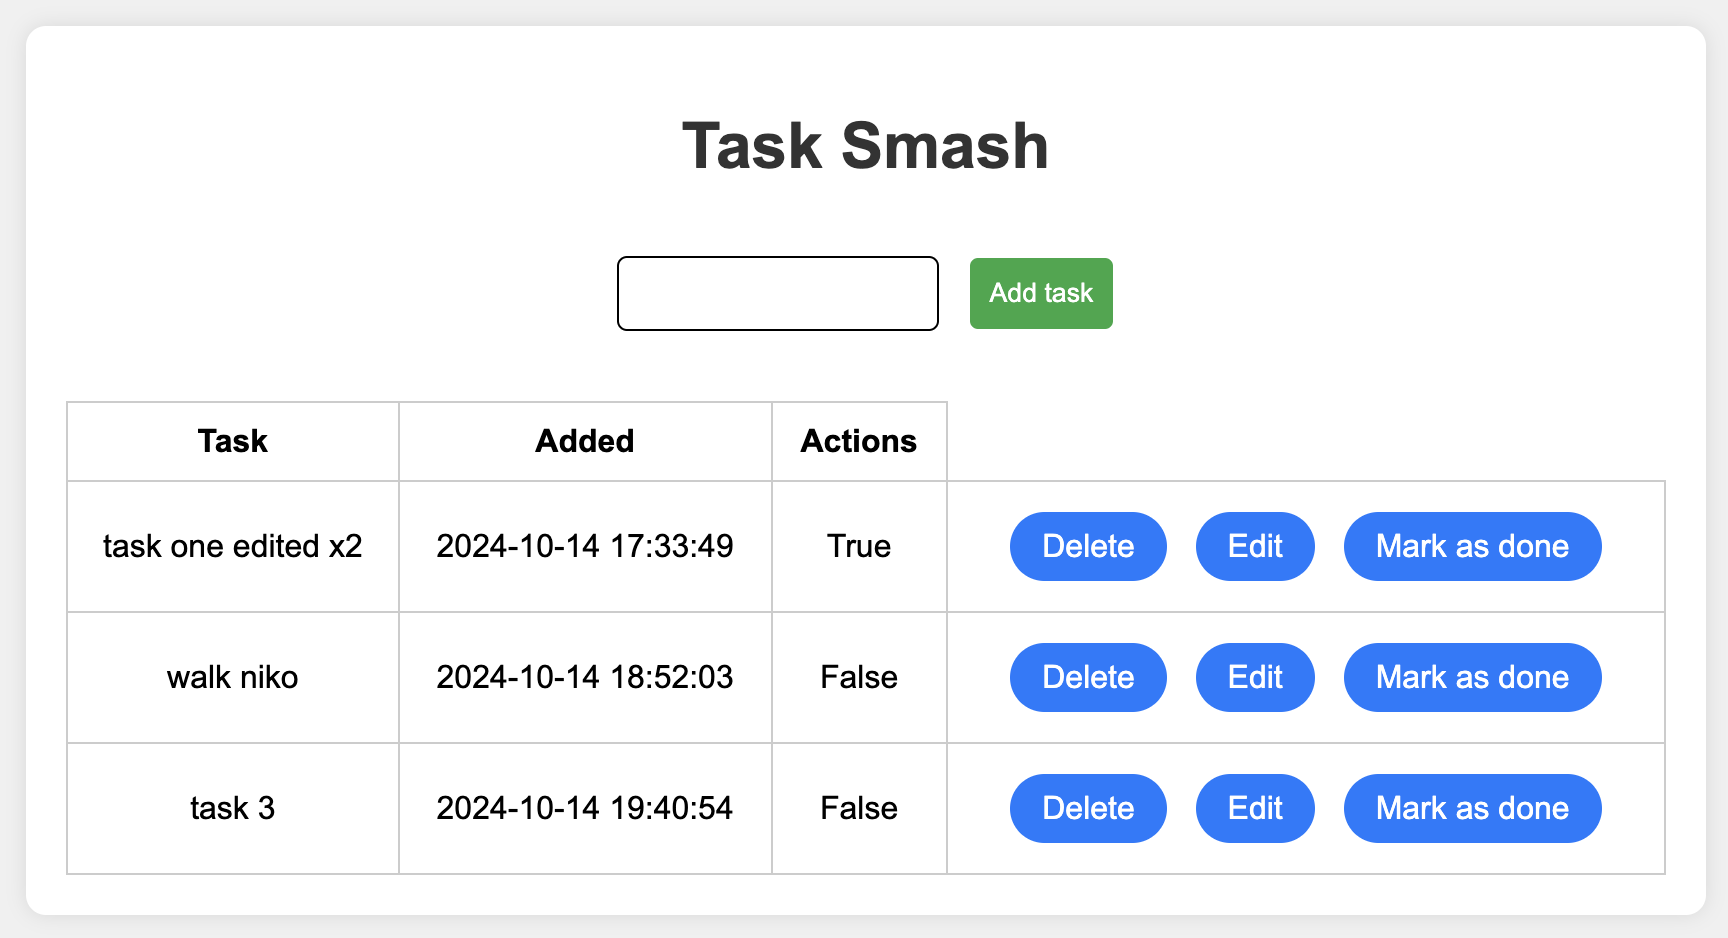
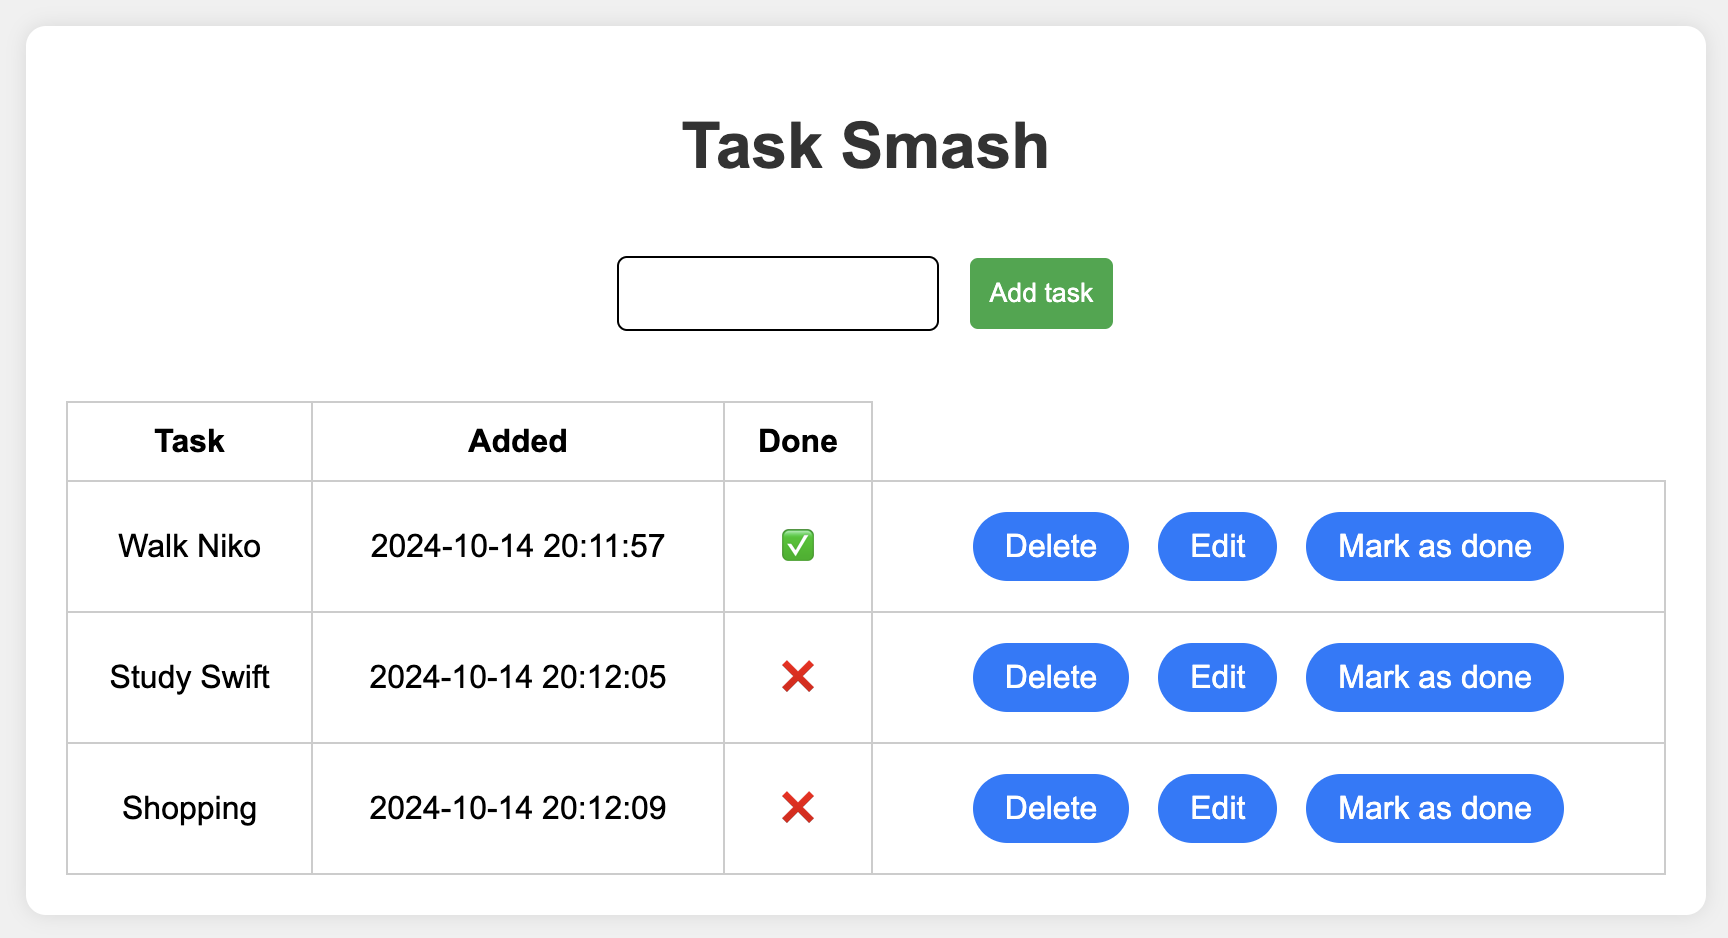
add emojis

diff --git a/templates/index.html b/templates/index.html
@@ -20,13 +20,13 @@
         <tr>
             <th>Task</th>
             <th>Added</th>
-            <th>Actions</th>
+            <th>Done</th>
         </tr>
         {% for task in tasks %}
             <tr>
                 <td>{{task.content}}</td>
                 <td>{{task.created.strftime('%Y-%m-%d %H:%M:%S')}}</td>
-                <td>{{task.done}}</td>
+                <td>{{ '✅' if task.done else '❌' }}</td>
                 <td>
                     <a href="/delete/{{task.id}}">Delete</a>
                     <a href="/edit/{{task.id}}">Edit</a>
